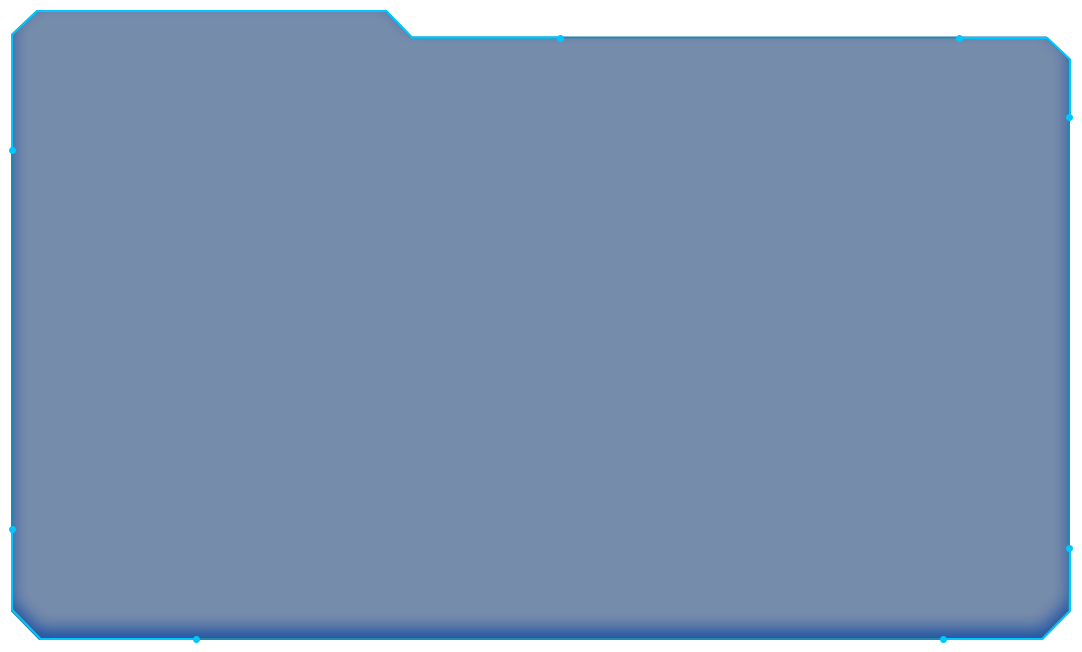
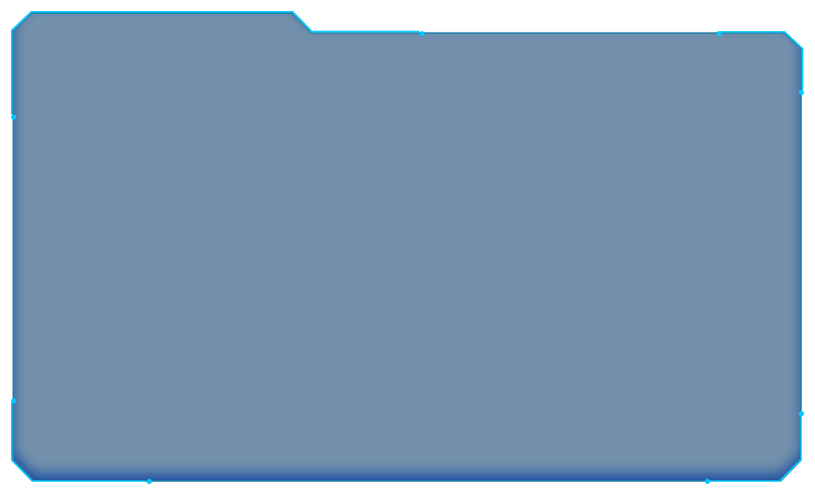
大屏首页样式修改

Changed region(s): [[0.0, 0.0302, 1.0, 0.998], [0.0307, 0.0, 0.3681, 0.0302]]

diff --git a/urban-management-web/src/main/resources/templates/page/command/index.html b/urban-management-web/src/main/resources/templates/page/command/index.html
@@ -10,155 +10,12 @@
     <th:block th:include="page/fragments/common :: swiper_css"/>
     <link th:href="@{/css/fullindex.css}" rel="stylesheet" type="text/css">
 </head>
-<body style="width: 100vw;height: 100vh;background-color: #031636;">
+<body style="width: 100vw;height: 100vh;">
 <div class="warp">
     <div class="fullScreen_index"><i class="fa fa-arrows-alt" aria-hidden="true"></i></div>
     <input type="hidden" value="" id="eventId_map">
     <input type="hidden" value="" id="url_map">
-    <div class="leftWarp">
-        <div class="fullMap">
-            <div class="map" id="map" style="width: 100%;height: 100%"></div>
-<!--            <div class="fugai">-->
-                <div class="checkTime">
-                    <div class="timeText">时间</div>
-                    <div class="selectTime">
-                        <select class="timeSelect" id="time" onchange="timeQuery()">
-                            <option value="year" selected>年</option>
-                            <option value="month">月</option>
-                            <option value="day">日</option>
-                        </select>
-                    </div>
-                </div>
-
-                <div class="numBosen">
-                    <div class="" id="reporting">
-                        <span>上报</span>
-                        <span id="count">···</span>
-                    </div>
-                    <div id="register">
-                        <span>立案</span>
-                        <span id="inst">···</span>
-                    </div>
-                    <div id="caseDispose">
-                        <span>处置</span>
-                        <span id="dispose">···</span>
-                    </div>
-                    <div id="caseclosed">
-                        <span>结案</span>
-                        <span id="close">···</span>
-                    </div>
-<!--                    <div id="onwer">-->
-<!--                        <span>人员</span>-->
-<!--                        <span>12</span>-->
-<!--                    </div>-->
-<!--                    <div id="cars">-->
-<!--                        <span>车辆</span>-->
-<!--                        <span>98</span>-->
-<!--                    </div>-->
-<!--                    <div id="videos">-->
-<!--                        <span>视频</span>-->
-<!--                        <span>6</span>-->
-<!--                    </div>-->
-                </div>
-
-<!--                <div class="checkBox">-->
-<!--                    <div class="mapLayers">-->
-<!--                        <div class="clickLayer">-->
-<!--                            <img th:src="@{/img/1.jpg}" alt="">-->
-<!--                        </div>-->
-<!--                        <span class="clickName">热力图</span>-->
-<!--                    </div>-->
-<!--                </div>-->
-
-<!--                <div class="viewGroup">-->
-<!--                    <div class="mapView">-->
-<!--                        <div class="optionLayers">-->
-<!--                            <div class="layerGrounp" id="map1">-->
-<!--                                <div class="layerInfo">-->
-<!--                                    <img th:src="@{/img/1.jpg}" alt="">-->
-<!--                                </div>-->
-<!--                                <span class="layerName">热力图</span>-->
-<!--                            </div>-->
-<!--                        </div>-->
-
-<!--                        <div class="optionLayers">-->
-<!--                            <div class="layerGrounp" id="map2">-->
-<!--                                <div class="layerInfo">-->
-<!--                                    <img th:src="@{/img/2.jpg}" alt="">-->
-<!--                                </div>-->
-<!--                                <span class="layerName">人群图</span>-->
-<!--                            </div>-->
-<!--                        </div>-->
-
-
-<!--                        <div class="optionLayers">-->
-<!--                            <div class="layerGrounp" id="map3">-->
-<!--                                <div class="layerInfo">-->
-<!--                                    <img th:src="@{/img/3.jpg}" alt="">-->
-<!--                                </div>-->
-<!--                                <span class="layerName">街道图</span>-->
-<!--                            </div>-->
-<!--                        </div>-->
-
-<!--                    </div>-->
-<!--                </div>-->
-<!--            </div>-->
-
-
-        </div>
-        <div class="content_bottom">
-            <div class="bar">
-                <div class="title">事件、部件</div>
-                <div class="barinnner">
-                    <div class="chars bandCha">
-                        <div class="abend">
-                            <div class="meter">
-                                <div id="watch" style="width: 100%;height:100%;"></div>
-                            </div>
-                            <div class="meterText">
-                                <div class="meterNum">
-                                    <span class="did">已处置</span>
-                                    <span class="line"></span>
-                                    <span class="didNum" id="eventDisponse">1121</span>
-                                </div>
-                                <div class="meterNum">
-                                    <span class="did">应处置</span>
-                                    <span class="line"></span>
-                                    <span class="didNum" id="eventNum">1121</span>
-                                </div>
-                            </div>
-                        </div>
-                        <div class="abend">
-                            <div class="meter">
-                                <div id="watch2" style="width: 100%;height:100%;"></div>
-                            </div>
-                            <div class="meterText">
-                                <div class="meterNum">
-                                    <span class="did">已处置</span>
-                                    <span class="line"></span>
-                                    <span class="didNum" id="unitDisponse">1121</span>
-                                </div>
-                                <div class="meterNum">
-                                    <span class="did">应处置</span>
-                                    <span class="line"></span>
-                                    <span class="didNum" id="unitNum">1121</span>
-                                </div>
-                            </div>
-                        </div>
-                    </div>
-                </div>
-            </div>
-            <div class="bar barorther">
-                <div class="title titleOrter">问题来源</div>
-                <div class="barinnner">
-                    <div class="chars">
-                        <div id="question" style="width: 100%;height:100%;"></div>
-                    </div>
-                </div>
-            </div>
-        </div>
-    </div>
-    <div class="rightWarp">
+    <div class="left">
         <div class="bar barIn">
             <div class="title">高发问题</div>
             <div class="barinnner">
@@ -184,6 +41,151 @@
             </div>
         </div>
     </div>
+    <div class="center">
+        <div class="fullMap">
+            <div class="map" id="map" style="width: 100%;height: 100%"></div>
+            <!--            <div class="fugai">-->
+            <div class="checkTime">
+                <div class="timeText">时间</div>
+                <div class="selectTime">
+                    <select class="timeSelect" id="time" onchange="timeQuery()">
+                        <option value="year" selected>年</option>
+                        <option value="month">月</option>
+                        <option value="day">日</option>
+                    </select>
+                </div>
+            </div>
+
+            <div class="numBosen">
+                <div class="" id="reporting">
+                    <span>上报</span>
+                    <span id="count">···</span>
+                </div>
+                <div id="register">
+                    <span>立案</span>
+                    <span id="inst">···</span>
+                </div>
+                <div id="caseDispose">
+                    <span>处置</span>
+                    <span id="dispose">···</span>
+                </div>
+                <div id="caseclosed">
+                    <span>结案</span>
+                    <span id="close">···</span>
+                </div>
+                <!--                    <div id="onwer">-->
+                <!--                        <span>人员</span>-->
+                <!--                        <span>12</span>-->
+                <!--                    </div>-->
+                <!--                    <div id="cars">-->
+                <!--                        <span>车辆</span>-->
+                <!--                        <span>98</span>-->
+                <!--                    </div>-->
+                <!--                    <div id="videos">-->
+                <!--                        <span>视频</span>-->
+                <!--                        <span>6</span>-->
+                <!--                    </div>-->
+            </div>
+
+            <!--                <div class="checkBox">-->
+            <!--                    <div class="mapLayers">-->
+            <!--                        <div class="clickLayer">-->
+            <!--                            <img th:src="@{/img/1.jpg}" alt="">-->
+            <!--                        </div>-->
+            <!--                        <span class="clickName">热力图</span>-->
+            <!--                    </div>-->
+            <!--                </div>-->
+
+            <!--                <div class="viewGroup">-->
+            <!--                    <div class="mapView">-->
+            <!--                        <div class="optionLayers">-->
+            <!--                            <div class="layerGrounp" id="map1">-->
+            <!--                                <div class="layerInfo">-->
+            <!--                                    <img th:src="@{/img/1.jpg}" alt="">-->
+            <!--                                </div>-->
+            <!--                                <span class="layerName">热力图</span>-->
+            <!--                            </div>-->
+            <!--                        </div>-->
+
+            <!--                        <div class="optionLayers">-->
+            <!--                            <div class="layerGrounp" id="map2">-->
+            <!--                                <div class="layerInfo">-->
+            <!--                                    <img th:src="@{/img/2.jpg}" alt="">-->
+            <!--                                </div>-->
+            <!--                                <span class="layerName">人群图</span>-->
+            <!--                            </div>-->
+            <!--                        </div>-->
+
+
+            <!--                        <div class="optionLayers">-->
+            <!--                            <div class="layerGrounp" id="map3">-->
+            <!--                                <div class="layerInfo">-->
+            <!--                                    <img th:src="@{/img/3.jpg}" alt="">-->
+            <!--                                </div>-->
+            <!--                                <span class="layerName">街道图</span>-->
+            <!--                            </div>-->
+            <!--                        </div>-->
+
+            <!--                    </div>-->
+            <!--                </div>-->
+            <!--            </div>-->
+
+
+        </div>
+    </div>
+    <div class="right">
+        <div class="bar">
+            <div class="title titleOrter">事件、部件</div>
+            <div class="barinnner">
+                <div class="chars bandCha">
+                    <div class="abend">
+                        <div class="meter">
+                            <div id="watch" style="width: 100%;height:100%;"></div>
+                        </div>
+                        <div class="meterText">
+                            <div class="meterNum">
+                                <span class="did">已处置</span>
+                                <span class="line"></span>
+                                <span class="didNum" id="eventDisponse">1121</span>
+                            </div>
+                            <div class="meterNum">
+                                <span class="did">应处置</span>
+                                <span class="line"></span>
+                                <span class="didNum" id="eventNum">1121</span>
+                            </div>
+                        </div>
+                    </div>
+                    <div class="abend">
+                        <div class="meter">
+                            <div id="watch2" style="width: 100%;height:100%;"></div>
+                        </div>
+                        <div class="meterText">
+                            <div class="meterNum">
+                                <span class="did">已处置</span>
+                                <span class="line"></span>
+                                <span class="didNum" id="unitDisponse">1121</span>
+                            </div>
+                            <div class="meterNum">
+                                <span class="did">应处置</span>
+                                <span class="line"></span>
+                                <span class="didNum" id="unitNum">1121</span>
+                            </div>
+                        </div>
+                    </div>
+                </div>
+            </div>
+        </div>
+        <div class="bar barorther">
+            <div class="title titleOrter">问题来源</div>
+            <div class="barinnner">
+                <div class="chars">
+                    <div id="question" style="width: 100%;height:100%;"></div>
+                </div>
+            </div>
+        </div>
+    </div>
+
+
 </div>
 </body>
 

diff --git a/urban-management-web/src/main/resources/static/css/fullindex.css b/urban-management-web/src/main/resources/static/css/fullindex.css
@@ -2,7 +2,15 @@
 	margin: 0;
 	padding: 0;
 }
-
+html {
+	width: 100%;
+	height: 100%;
+}
+body{
+	background: url("../img/screen-bg.jpg") left 100% no-repeat;
+	background-size: cover;
+	background-attachment: fixed;
+}
 .warp {
 	width: 100%;
 	height: 100%;
@@ -28,7 +36,7 @@
 
 .fullMap {
 	width: 100%;
-	height: 66%;
+	height: 100%;
 	position: relative;
 	/* background: url("../img/mapborder.png"); */
 	background-color: #fff;
@@ -53,16 +61,16 @@
 }
 
 .bar {
-	width: 49%;
-	height: 100%;
-	background: url("../img/bar2.png");
+	width: 100%;
+	height: 50%;
+	background: url("../img/barorther2.png");
 	background-size: 100% 100%;
 	display: flex;
 	position: relative;
 }
 
 .barorther {
-	background: url("../img/barorther.png");
+	background: url("../img/barorther2.png");
 	background-size: 100% 100%;
 }
 
@@ -335,12 +343,11 @@
 	right: 10px;
 	z-index: 20;
 }
-.label,
-.title {
-	background: #000;
-	color: #fff;
-	padding: 3px;
-}
+/*.label,*/
+/*.title {*/
+/*	color: #fff;*/
+/*	padding: 3px;*/
+/*}*/
 
 .popup-content {
 	background: #fff;
@@ -365,4 +372,24 @@
 }
 .details:hover{
 	color: #1181FF;
+}
+.left{
+	width: 30%;
+	height: 100%;
+	float: left;
+	padding: 5px;
+}
+.center{
+	width: 40%;
+	height: 100%;
+	background: url("../img/center-bg.png");
+	background-size: 100% 100%;
+	padding: 28px;
+	float: left;
+}
+.right{
+	width: 30%;
+	height: 100%;
+	float: left;
+	padding: 5px;
 }
